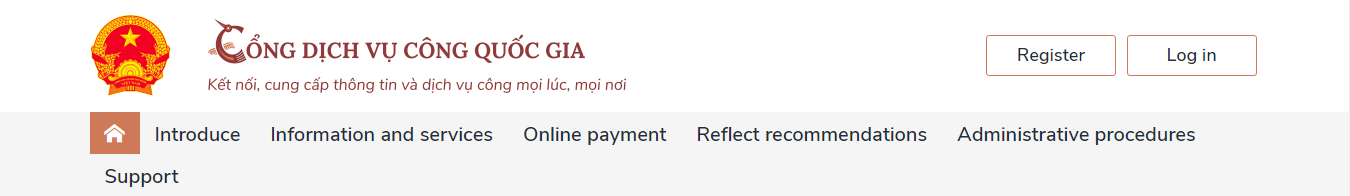
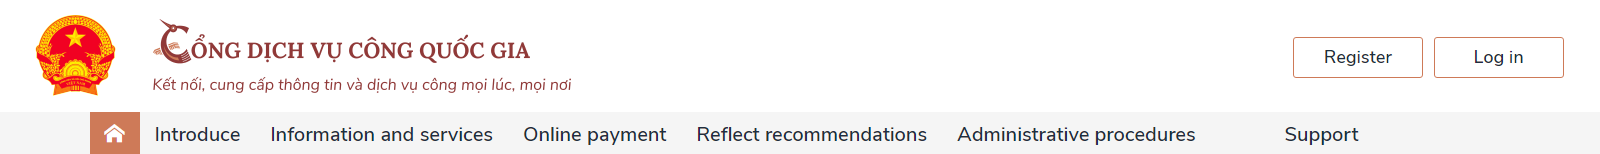
removed some excess stuff

diff --git a/passportopen.html b/passportopen.html
@@ -5,9 +5,9 @@
         <img src="assets/govheading.PNG" alt="Vietnam Government Website Heading" style="width:100%;height:auto;object-fit:contain;">
     </head>
     <body>
-        <img src="assets/govpassinfo.PNG" alt="Vietnam Government Passport Page Info" style="width:100%;height:auto;object-fit:contain;">
-
         <div class="head1" style="font-size:15px;">Home Page > Residence and Identity Documents > Passport</div>
+        
+        <img src="assets/govpassinfo.PNG" alt="Vietnam Government Passport Page Info" style="width:100%;height:auto;object-fit:contain;">
 
         <div class="head1">Temporarily Absent</div>
         <div class="head1"><a href="passportopen.html" style="color: inherit;">Passport</a></div>

diff --git a/passport.html b/passport.html
@@ -5,10 +5,9 @@
         <img src="assets/govheading.PNG" alt="Vietnam Government Website Heading" style="width:100%;height:auto;object-fit:contain;">
     </head>
     <body>
+        <div class="head1" style="font-size:15px;">Home Page > Residence and Identity Documents</div>
 
         <img src="assets/govpassinfo.PNG" alt="Vietnam Government Passport Page Info" style="width:100%;height:auto;object-fit:contain;">
-
-        <div class="head1" style="font-size:15px;">Home Page > Residence and Identity Documents</div>
 
         <div class="head1">Temporarily Absent</div>
         <div class="head1"><a href="passportopen.html" style="color: inherit;">Passport</a></div>

diff --git a/style.css b/style.css
@@ -74,7 +74,6 @@ body {
     color: darkslategray;
     margin-top: 10px;
     margin-left: 150px;
-    display: inline-block;
     background: whitesmoke;
 }
 
@@ -87,7 +86,6 @@ body {
     color: darkslategray;
     margin-top: 10px;
     margin-right: 150px;
-    display: inline-block;
     background: whitesmoke;
 }
 
